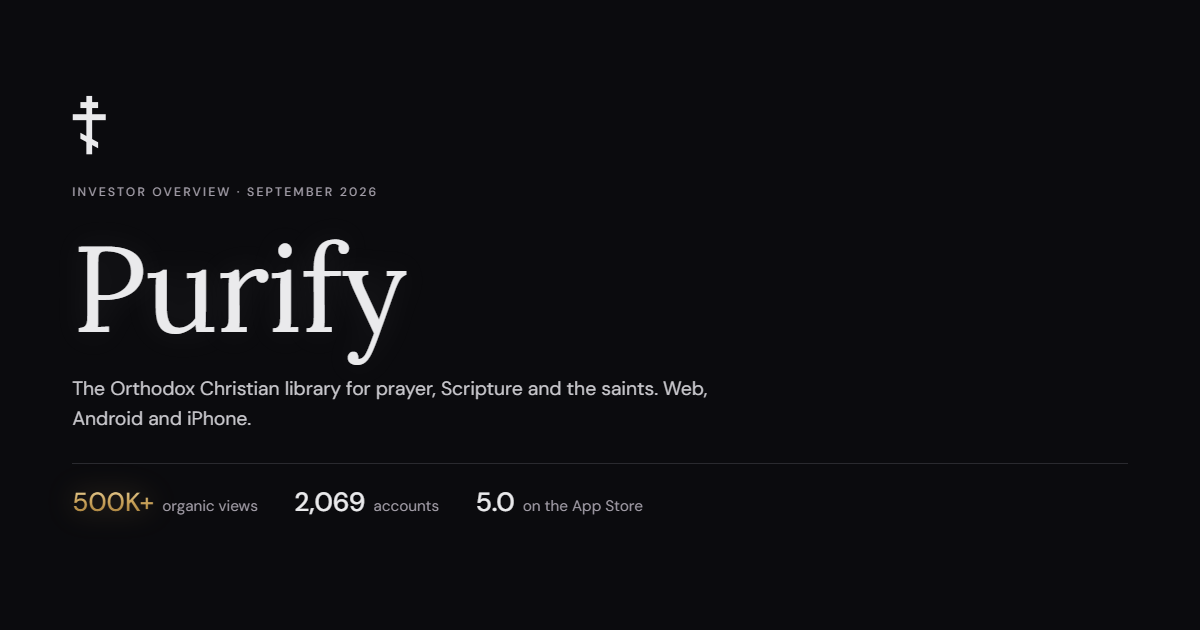
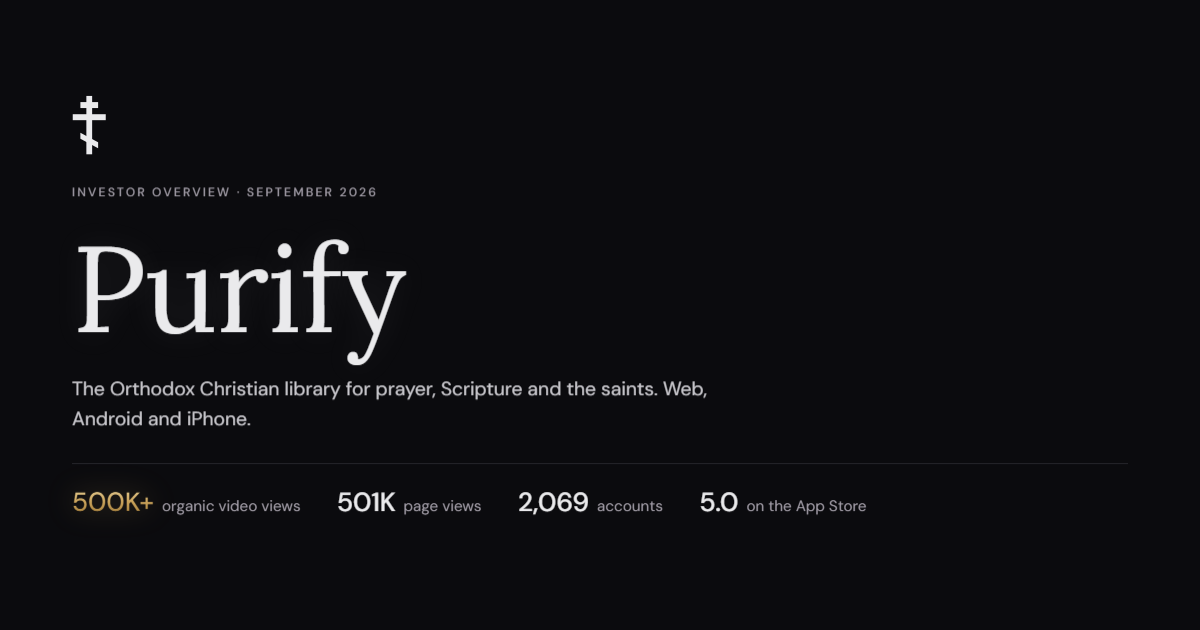
Add page views to the investor overview
501K page views since launch and 112K in the last 14 days, on the cover and
the traction slide, with the link-preview image redrawn to match.

diff --git a/app/invest/deck.html b/app/invest/deck.html
@@ -6,11 +6,11 @@
 <meta name="robots" content="noindex, nofollow">
 <meta name="theme-color" content="#0b0b0e">
 <title>Purify · Investor overview</title>
-<meta name="description" content="2,069 accounts in four months. Half a million organic views. The Orthodox world, still open.">
+<meta name="description" content="2,069 accounts and half a million page views in four months. The Orthodox world, still open.">
 <meta property="og:type" content="website">
 <meta property="og:site_name" content="Purify">
 <meta property="og:title" content="Purify · Investor overview">
-<meta property="og:description" content="2,069 accounts in four months. Half a million organic views. The Orthodox world, still open.">
+<meta property="og:description" content="2,069 accounts and half a million page views in four months. The Orthodox world, still open.">
 <meta property="og:url" content="https://purifyapp.net/invest">
 <meta property="og:image" content="https://purifyapp.net/invest/og">
 <meta property="og:image:width" content="1200">
@@ -470,7 +470,8 @@
       <h1 class="r" style="--i:2">Purify</h1>
       <p class="lede r" style="--i:3">The Orthodox Christian library for prayer, Scripture and the saints. Web, Android and iPhone.</p>
       <div class="kpis r" style="--i:4">
-        <span><b class="metal" data-count="500" data-suffix="K+">500K+</b>organic views</span>
+        <span><b class="metal" data-count="500" data-suffix="K+">500K+</b>organic video views</span>
+        <span><b data-count="501" data-suffix="K">501K</b>page views</span>
         <span><b data-count="2069">2,069</b>accounts</span>
         <span><b data-count="5.0" data-decimals="1">5.0</b>on the App Store</span>
       </div>
@@ -501,16 +502,17 @@
       <p class="eyebrow r" style="--i:0">Traction</p>
       <h2 class="r" style="--i:1">2,069 accounts in four months.</h2>
       <div class="split">
-        <div class="stats">
-          <div class="stat r from-left" style="--i:2"><span class="num metal" data-count="802">802</span><span class="label">new accounts in the last 30 days</span></div>
-          <div class="stat r from-left" style="--i:2.6"><span class="num" data-count="436">436</span><span class="label">visits a day, two thirds in the app</span></div>
-          <div class="stat r from-left" style="--i:3.2"><span class="num" data-count="5.0" data-decimals="1">5.0</span><span class="label">App Store rating</span></div>
+        <div class="stats quad">
+          <div class="stat r from-left" style="--i:2"><span class="num metal" data-count="501" data-suffix="K">501K</span><span class="label">page views since launch</span></div>
+          <div class="stat r from-left" style="--i:2.4"><span class="num" data-count="112" data-suffix="K">112K</span><span class="label">page views in the last 14 days</span></div>
+          <div class="stat r from-left" style="--i:2.8"><span class="num" data-count="802">802</span><span class="label">new accounts in the last 30 days</span></div>
+          <div class="stat r from-left" style="--i:3.2"><span class="num" data-count="436">436</span><span class="label">visits a day, two thirds in the app</span></div>
         </div>
         <figure class="r" style="--i:2.6">
           <svg class="chart" id="chart-signups" viewBox="0 0 520 260" role="img" aria-label="Total accounts at the end of each month: May 98, June 259, July 789, August 1,661, September 2,069 by the 18th and about 2,360 at its pace."></svg>
         </figure>
       </div>
-      <p class="note r" style="--i:4">Total accounts at the end of each month. September is 2,069 on the 18th; the outline is where it lands at the same pace. A visit is a session, not a unique person.</p>
+      <p class="note r" style="--i:4">Total accounts at the end of each month. September is 2,069 on the 18th; the outline is where it lands at the same pace. A visit is a session, not a unique person. A page view is one screen opened, in the app or on the web.</p>
     </div>
   </section>
 
